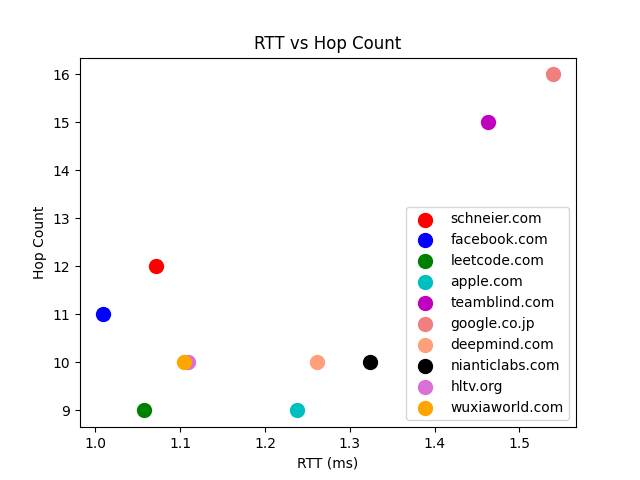
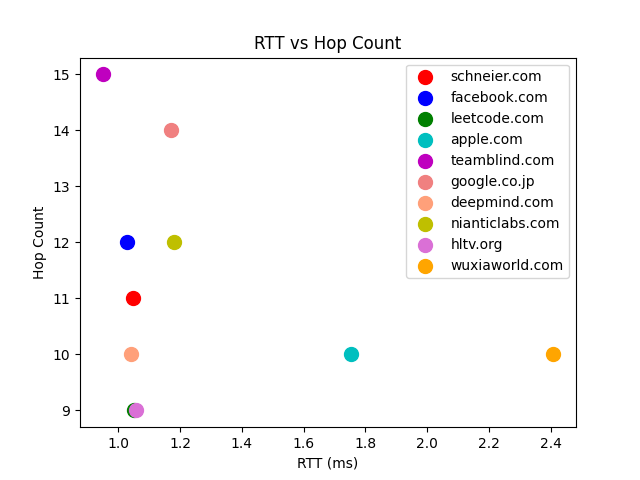
fuck colors

diff --git a/distMeasurement.py b/distMeasurement.py
@@ -101,7 +101,7 @@ def run():
 
     #Plot data and save graph
     import matplotlib.pyplot as plt
-    colors = ['r', 'b', 'g', 'c', 'm', 'lightcoral', 'lightsalmon', 'k', 'orchid' , 'orange']
+    colors = ['r', 'b', 'g', 'c', 'm', 'lightcoral', 'lightsalmon', 'y', 'orchid' , 'orange']
     assert hops_info.keys() == RTT_info.keys()
 
     #plot and anannotate each point
